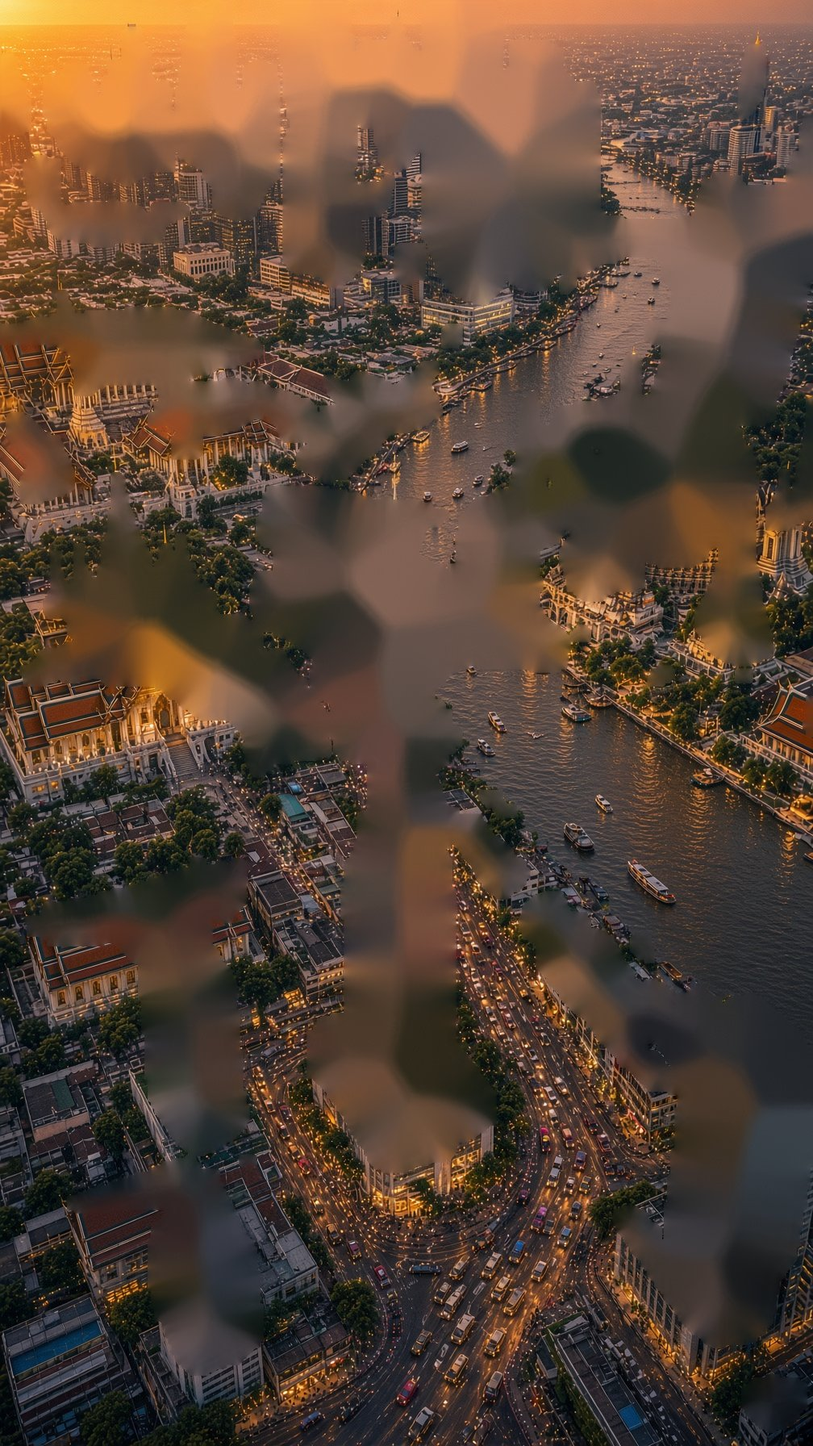
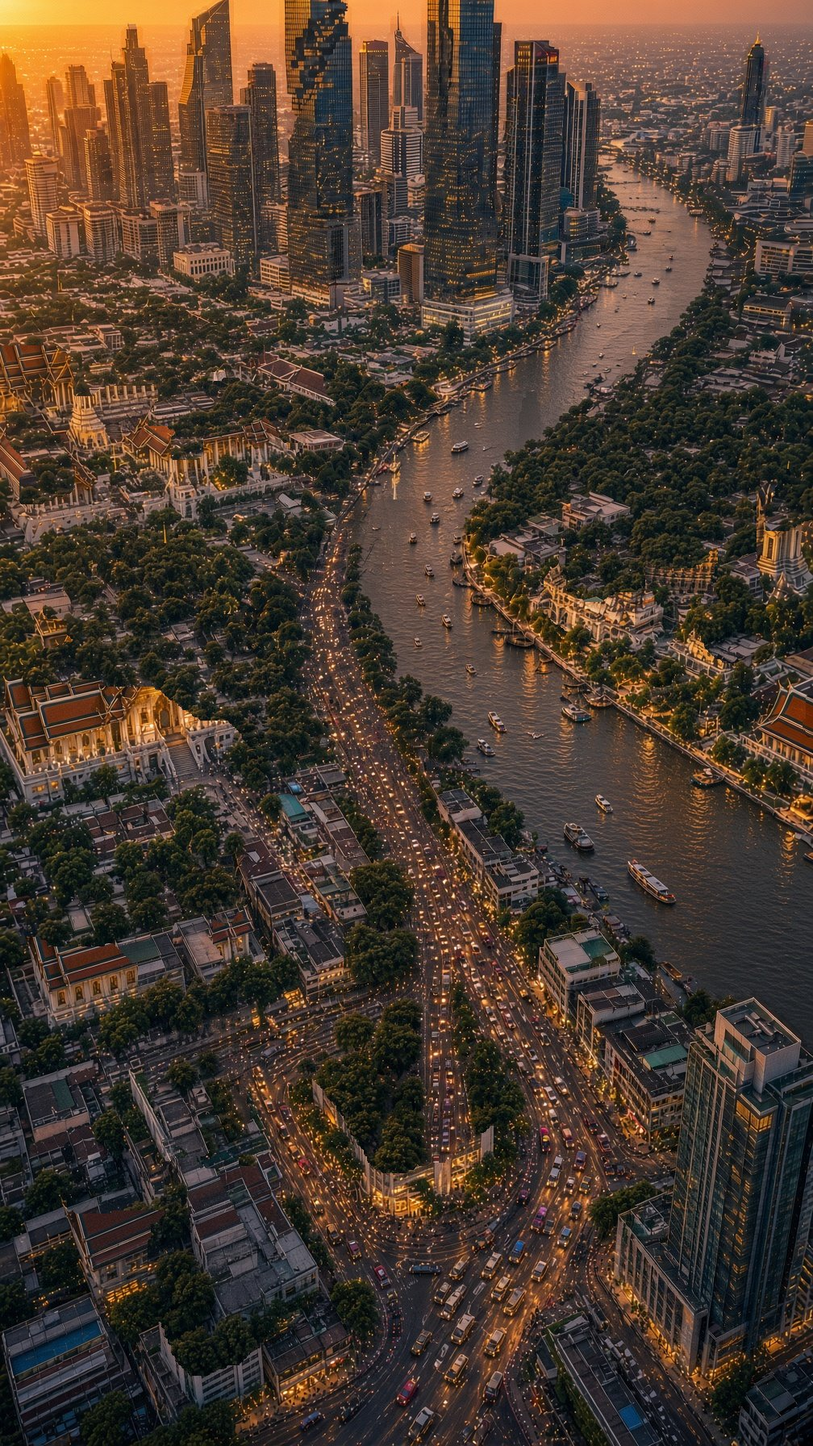
v0.44 방콕 뒷판에 탑 없는 생성 그림 사용 (흐린 메움 대신)
Claude-Session: https://claude.ai/code/session_01CUchZLyadQBEtBQRmMqRR9

diff --git a/city_play/index.html b/city_play/index.html
@@ -65,7 +65,7 @@ button:active{transform:scale(.97)}
 <div class="hud"><div id="time">0.0</div><div id="best">최고 0.0초</div><div id="pop"></div></div>
 <button id="dir" type="button"></button>
 <div id="mode"></div>
-<div id="ver">v0.43 · city_play</div>
+<div id="ver">v0.44 · city_play</div>
 
 <div class="tog"><select id="city" aria-label="도시"></select></div>
 <div class="ov" id="start">
